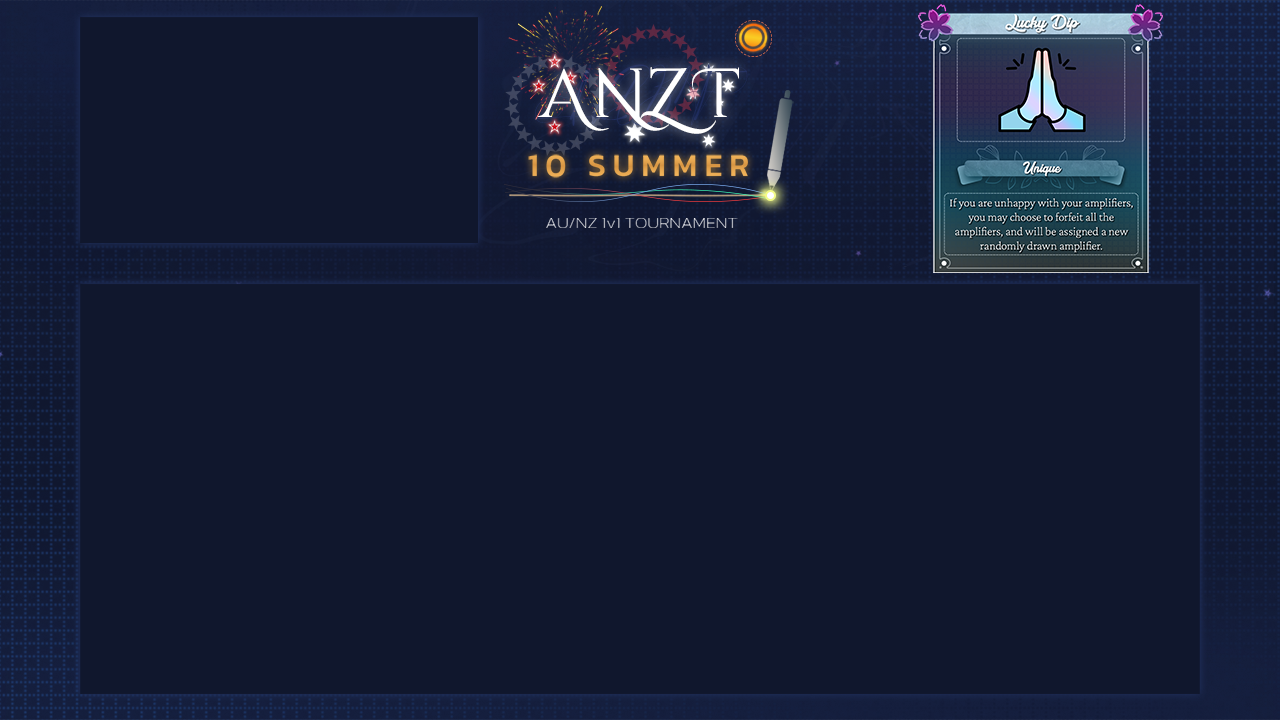
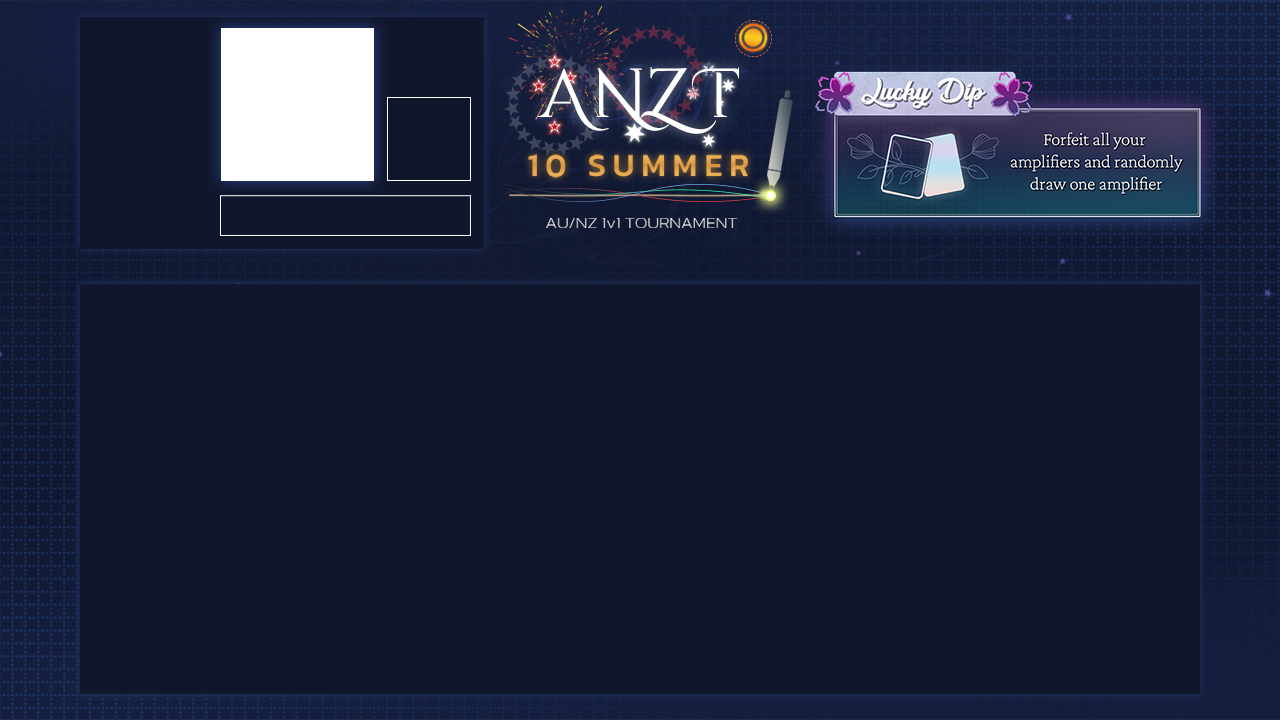
Improved visual clarity, added custom button images

diff --git a/main.py b/main.py
@@ -84,12 +84,11 @@ currentPlayerIcon = currentPlayerIcon.resize((int(150), int(150)))
 currentPlayerIcon = ImageTk.PhotoImage(currentPlayerIcon)
 width, height = currentPlayerIcon.width(), currentPlayerIcon.height()
 label_playerIcon = tkinter.Label(app, bg="#10172d", width=width, height=height, image=currentPlayerIcon)
-label_playerIcon.place(x=250, y=35)
-
-font = ("Crimson Pro", 24)
+label_playerIcon.place(x=220, y=27)
+font = ("Crimson Pro", 16)
 
 label_playerName = tkinter.Label(app, bg="#10172d", text=playerName[0][:-4], fg="white", font=font, anchor=tkinter.CENTER)
-label_playerName.place(x=255, y=190)
+label_playerName.place(x=230, y=198)
 
 
 def clearCards():
@@ -174,16 +173,19 @@ def saveOutput():
 
 
 # Previous
-button = customtkinter.CTkButton(master=app, text="Prev", command=buttonPrev)
-button.place(width=90, relx=0.12, rely=0.08, anchor=tkinter.CENTER)
+buttonImage = customtkinter.CTkImage(Image.open("./data/button_prev.png"), size=(106, 40))
+buttonPrev = customtkinter.CTkButton(master=app, command=buttonPrev, corner_radius=0, text="", fg_color="#10172d", hover_color="#10172d", image=buttonImage)
+buttonPrev.place(width=118, height=44, relx=0.1165, rely=0.07, anchor=tkinter.CENTER)
 
 # Next
-button = customtkinter.CTkButton(master=app, text="Next", command=buttonNext)
-button.place(width=90, relx=0.12, rely=0.18, anchor=tkinter.CENTER)
+buttonImage = customtkinter.CTkImage(Image.open("./data/button_next.png"), size=(106, 40))
+buttonNext = customtkinter.CTkButton(master=app, command=buttonNext, corner_radius=0, text="", fg_color="#10172d", hover_color="#10172d", image=buttonImage)
+buttonNext.place(width=118, height=44, relx=0.1165, rely=0.185, anchor=tkinter.CENTER)
 
 # Roll
-button = customtkinter.CTkButton(master=app, text="Roll", command=buttonRoll)
-button.place(width=90, relx=0.12, rely=0.28, anchor=tkinter.CENTER)
+buttonImage = customtkinter.CTkImage(Image.open("./data/button_roll.png"), size=(106, 40))
+buttonRoll = customtkinter.CTkButton(master=app, command=buttonRoll, corner_radius=0, text="", fg_color="#10172d", hover_color="#10172d", image=buttonImage)
+buttonRoll.place(width=118, height=44, relx=0.1165, rely=0.3, anchor=tkinter.CENTER)
 
 
 app.mainloop()
